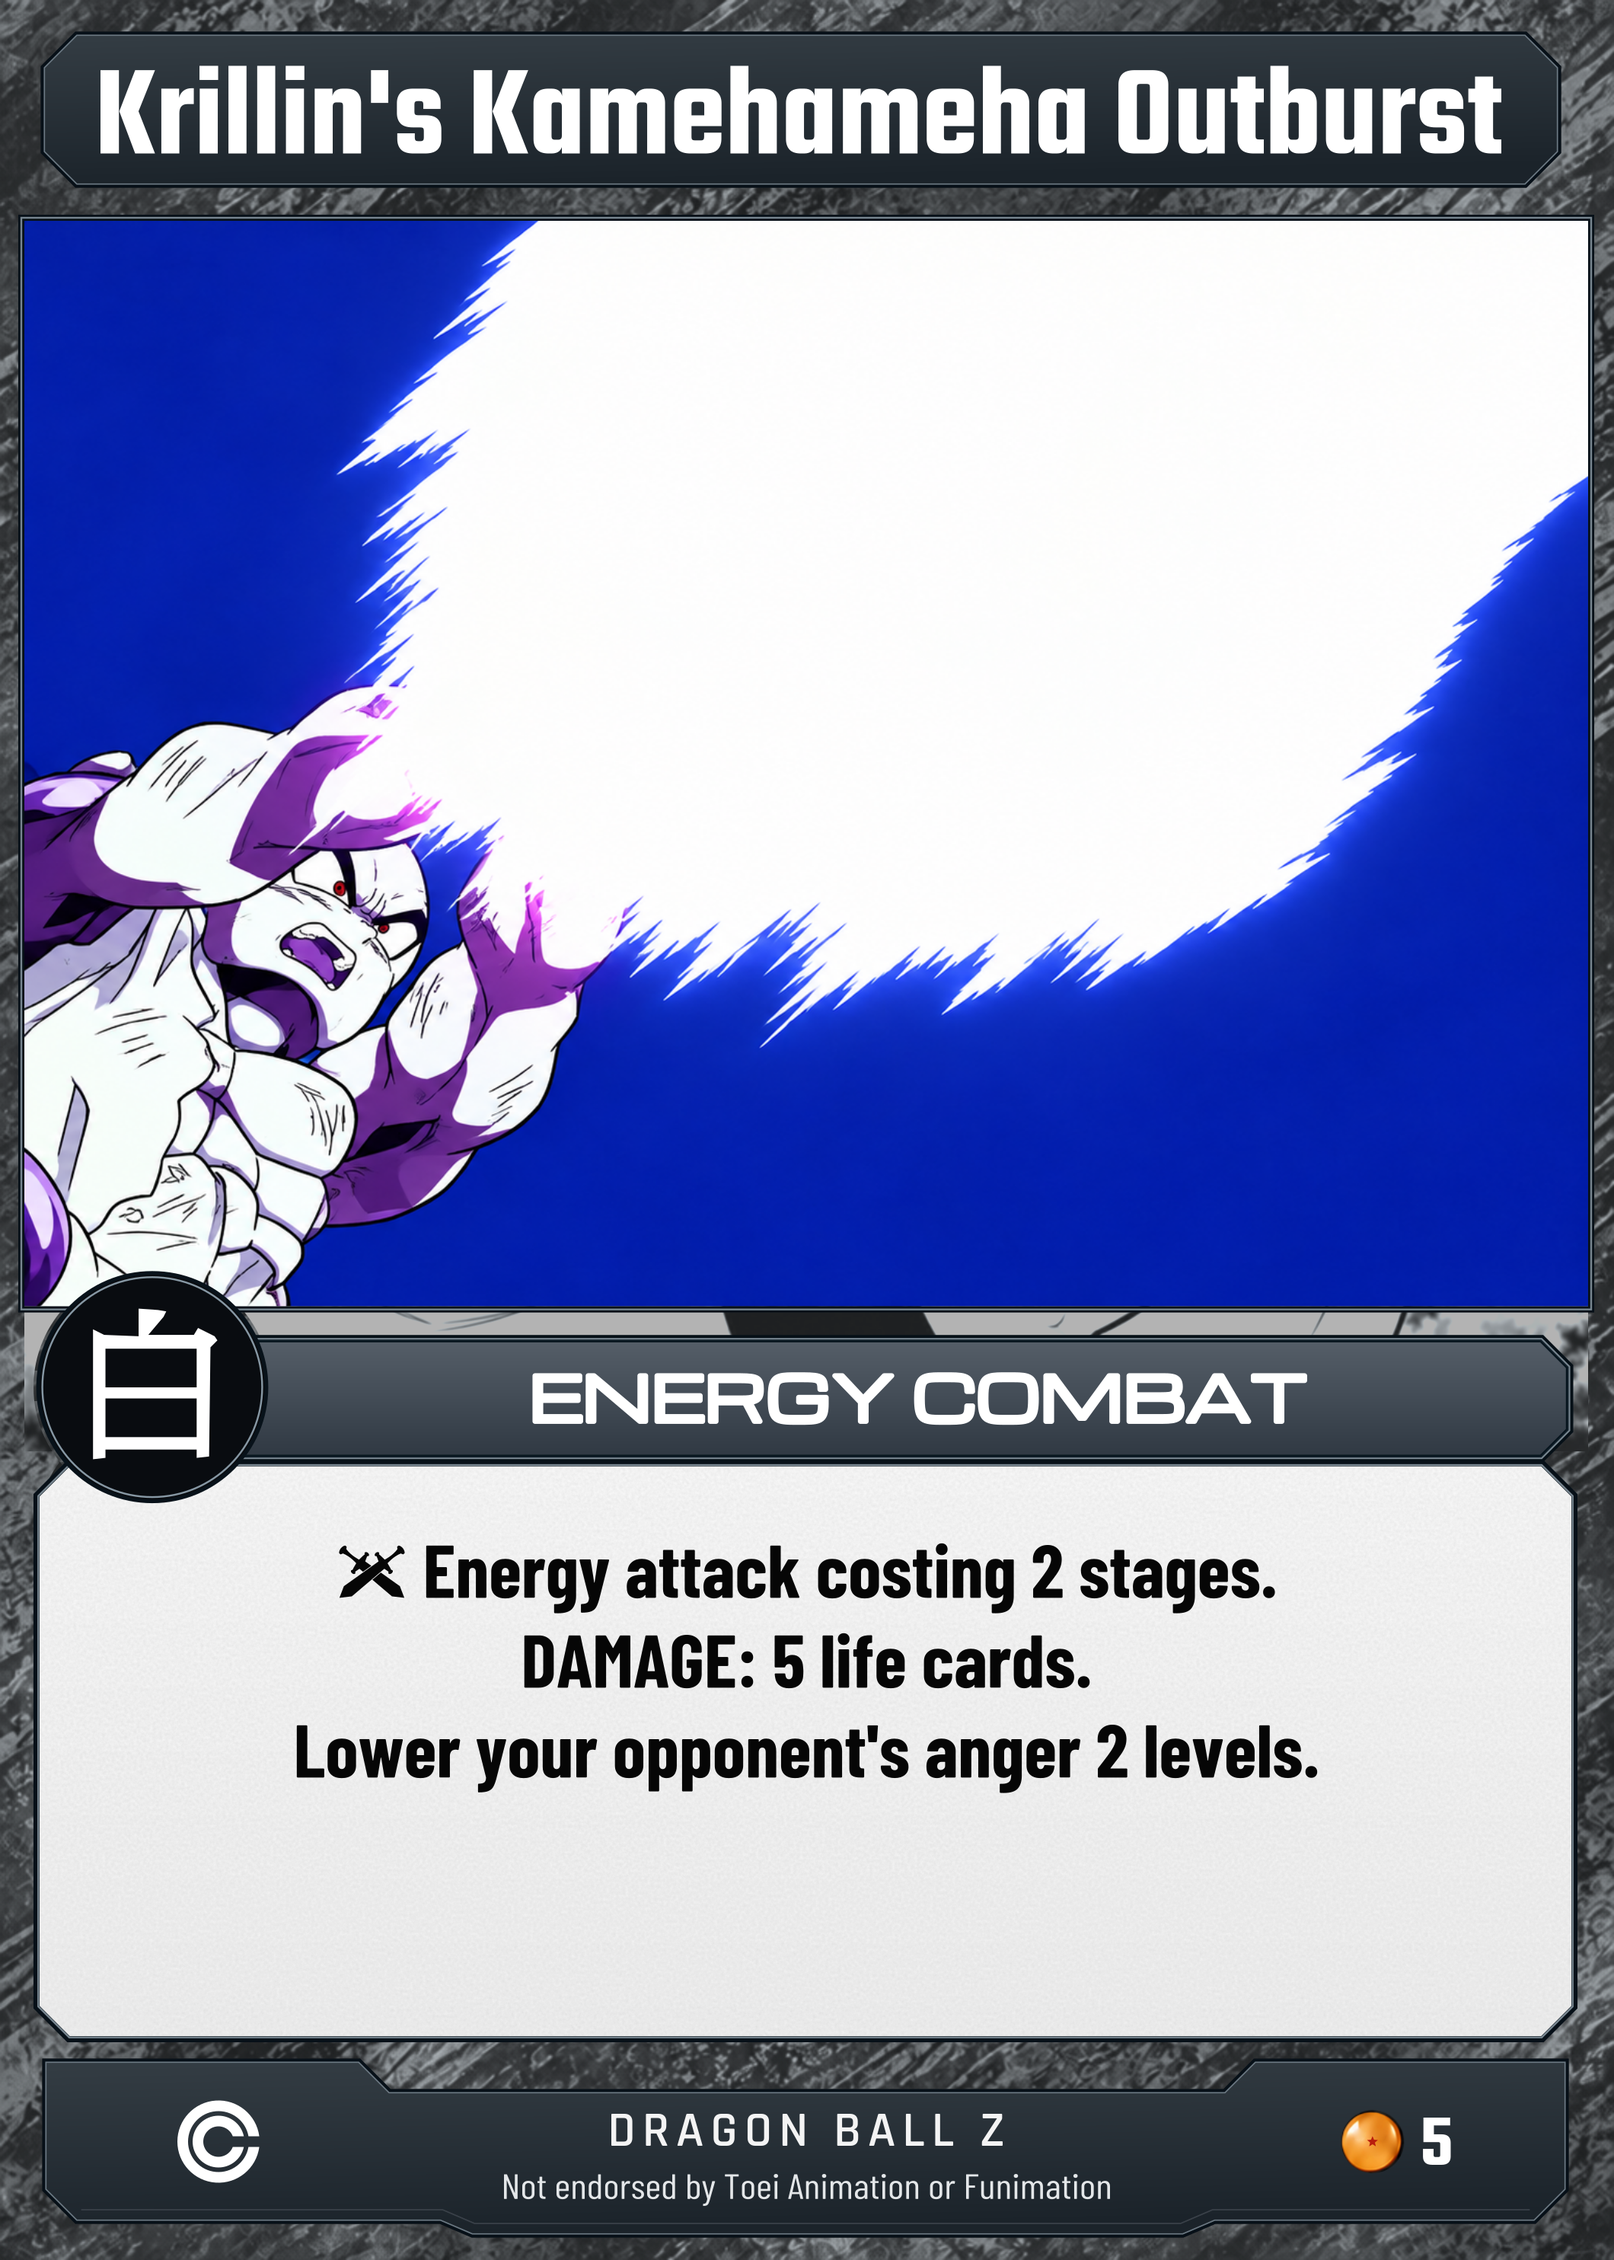
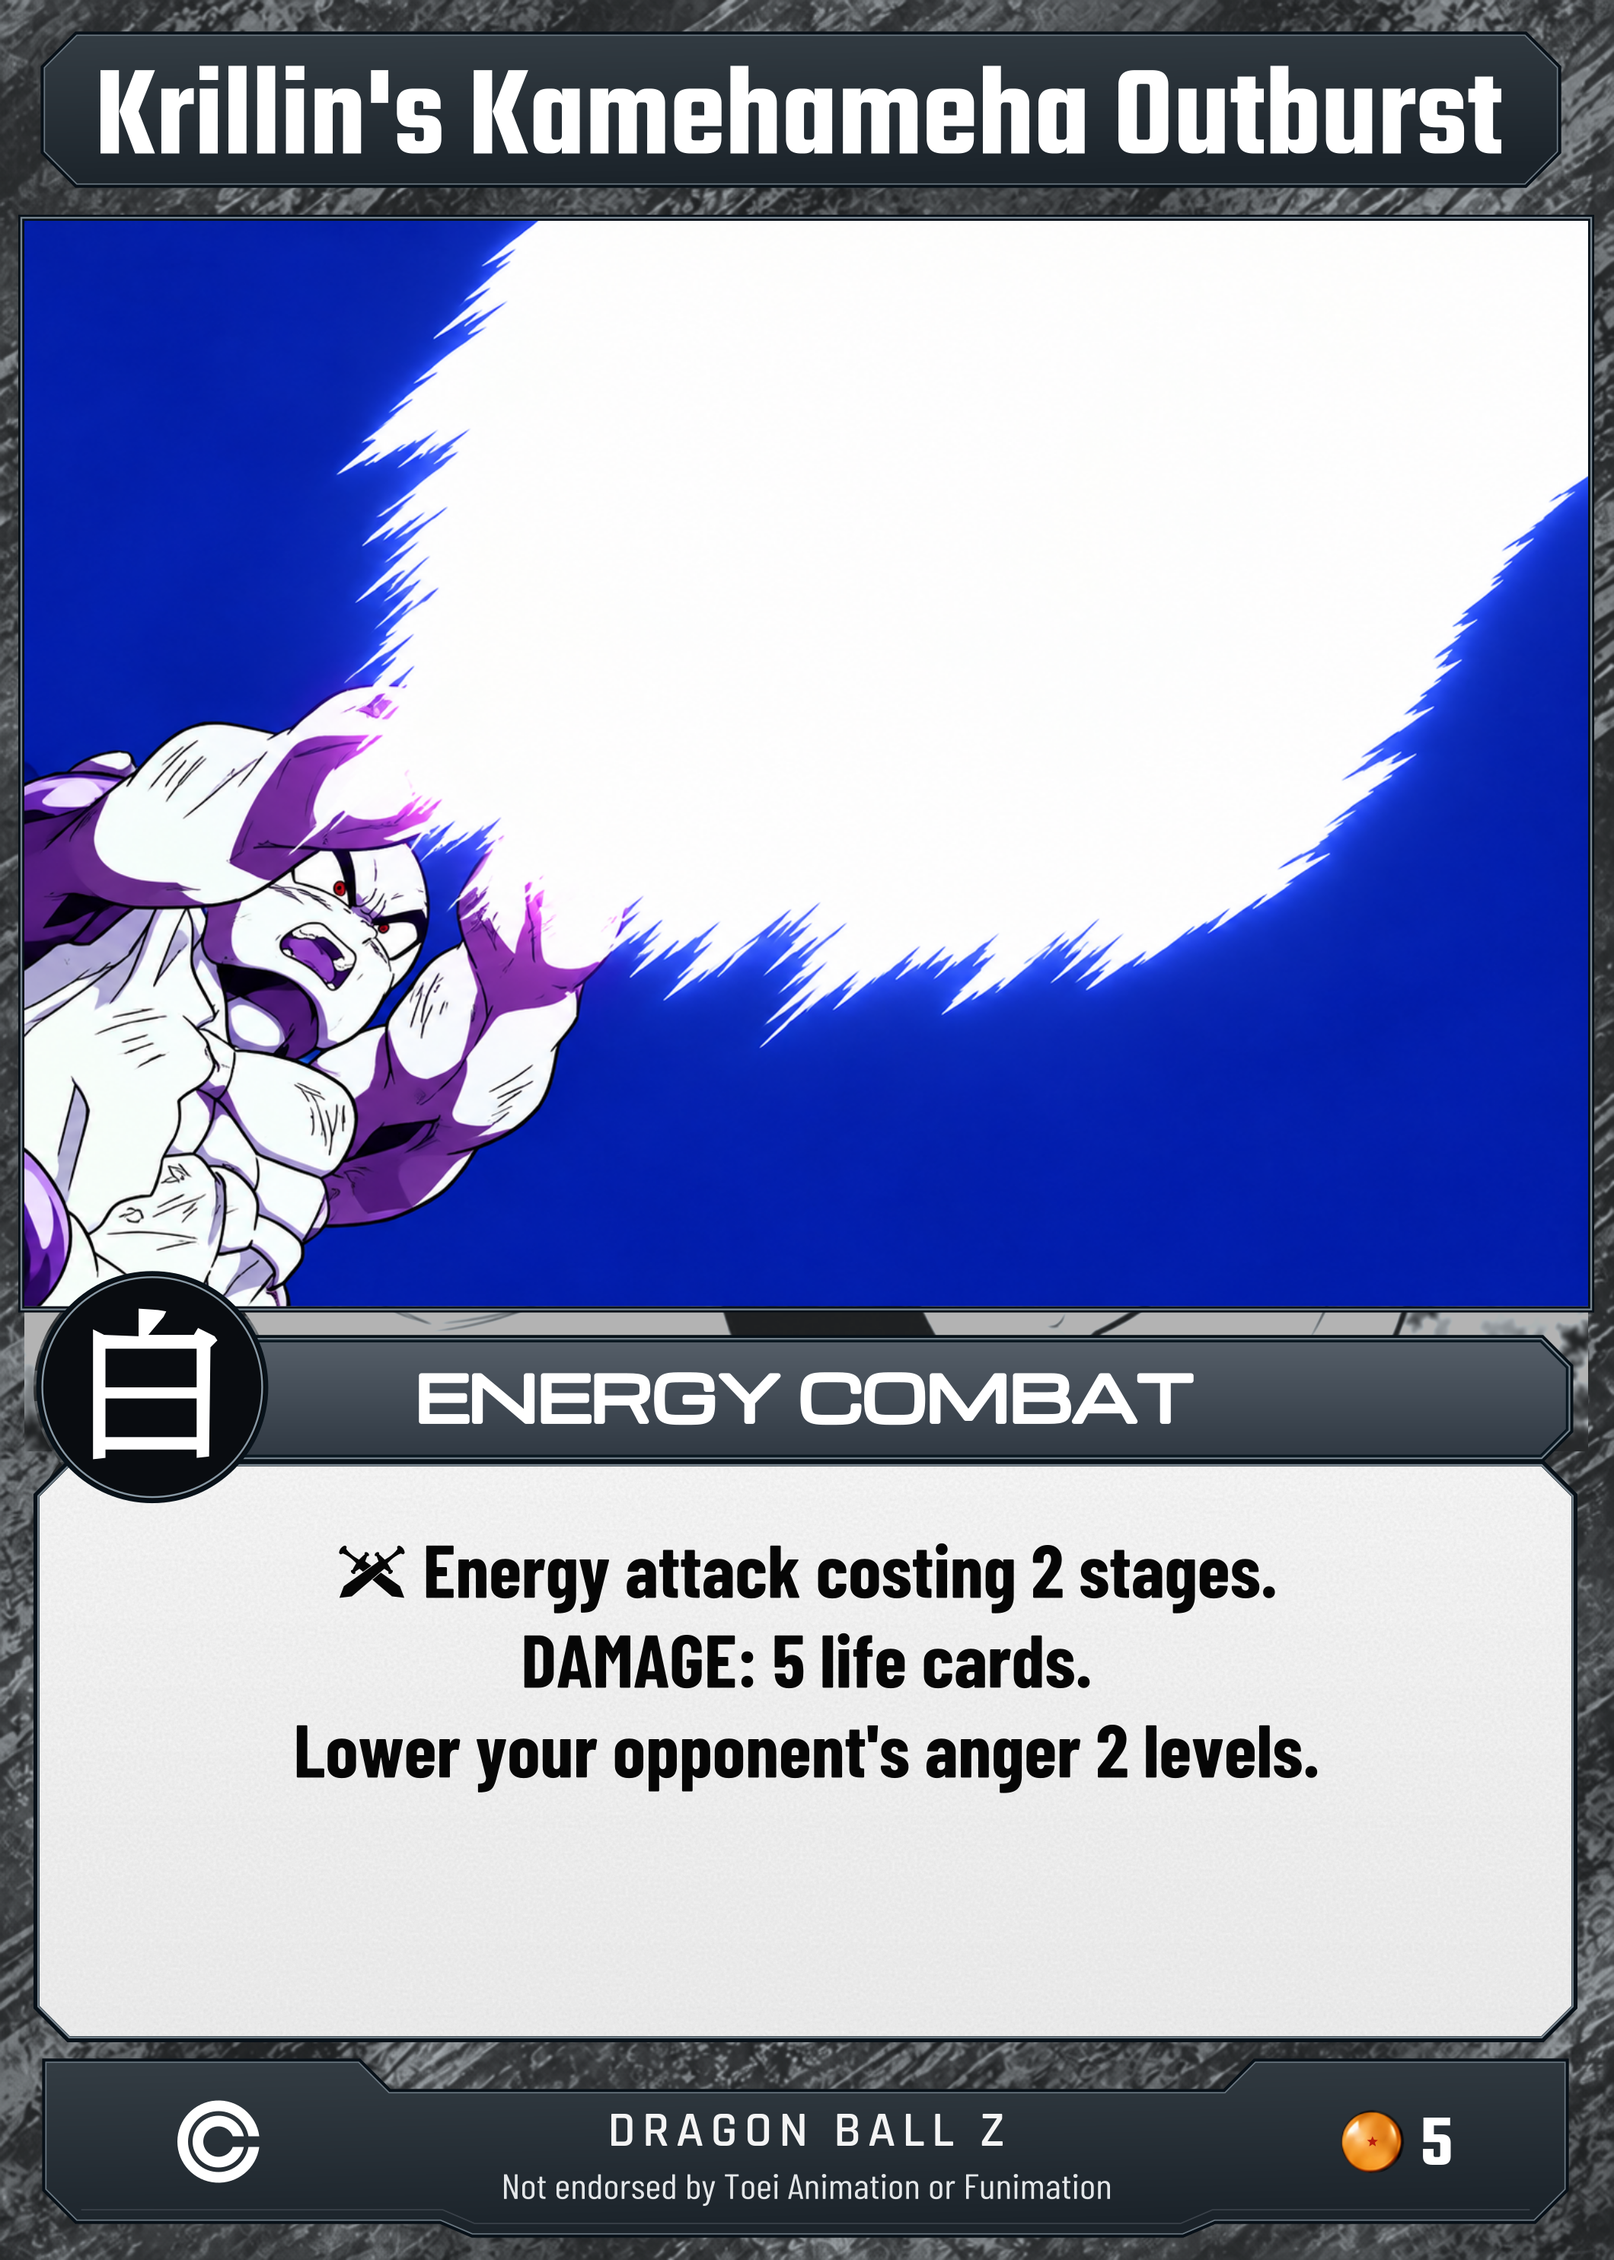
Center Trunks card 005 category label beneath its artwork
Move ENERGY COMBAT 74.6 native units left so its visible center matches the artwork window at x529.5. Preserve label size, vertical position, all artwork, borders, rules and other card data. Update display and lossless download cache versions.

Validation: centering is exact and idempotent; only the native label transform changes; decoded pixels outside the text mask are identical; PNG and lossless WebP match.

Changed region(s): [[0.2491, 0.5889, 0.8094, 0.6509]]

diff --git a/public/cards/catalog.js b/public/cards/catalog.js
@@ -6228,11 +6228,11 @@ export const catalog = [
     "style": "Freestyle",
     "set": "Trunks Saga",
     "status": "Ready",
-    "image": "/assets/cards/trunks-005-krillins-kamehameha-outburst.webp?v=01e6e94b6c18",
+    "image": "/assets/cards/trunks-005-krillins-kamehameha-outburst.webp?v=e39e10806dce",
     "width": 1060,
     "height": 1484,
     "source": "https://dbzoutpost.com/products/trunks-saga-limited-5",
-    "downloadImage": "/assets/cards/downloads/trunks-005-krillins-kamehameha-outburst.webp?v=00ef43b98fcb",
+    "downloadImage": "/assets/cards/downloads/trunks-005-krillins-kamehameha-outburst.webp?v=03232a6543ac",
     "rules": "Energy attack costing 2 stages. DAMAGE: 5 life cards. Lower your opponent's anger 2 levels.",
     "rarity": "Common"
   },
